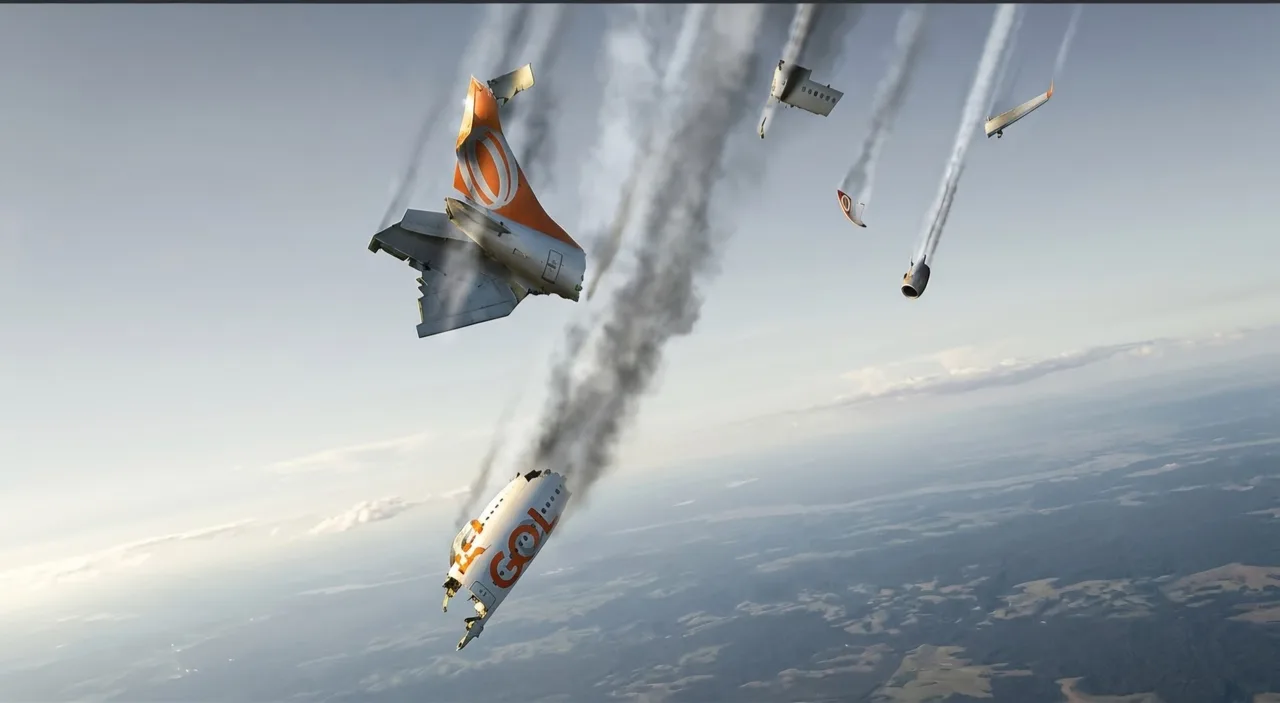
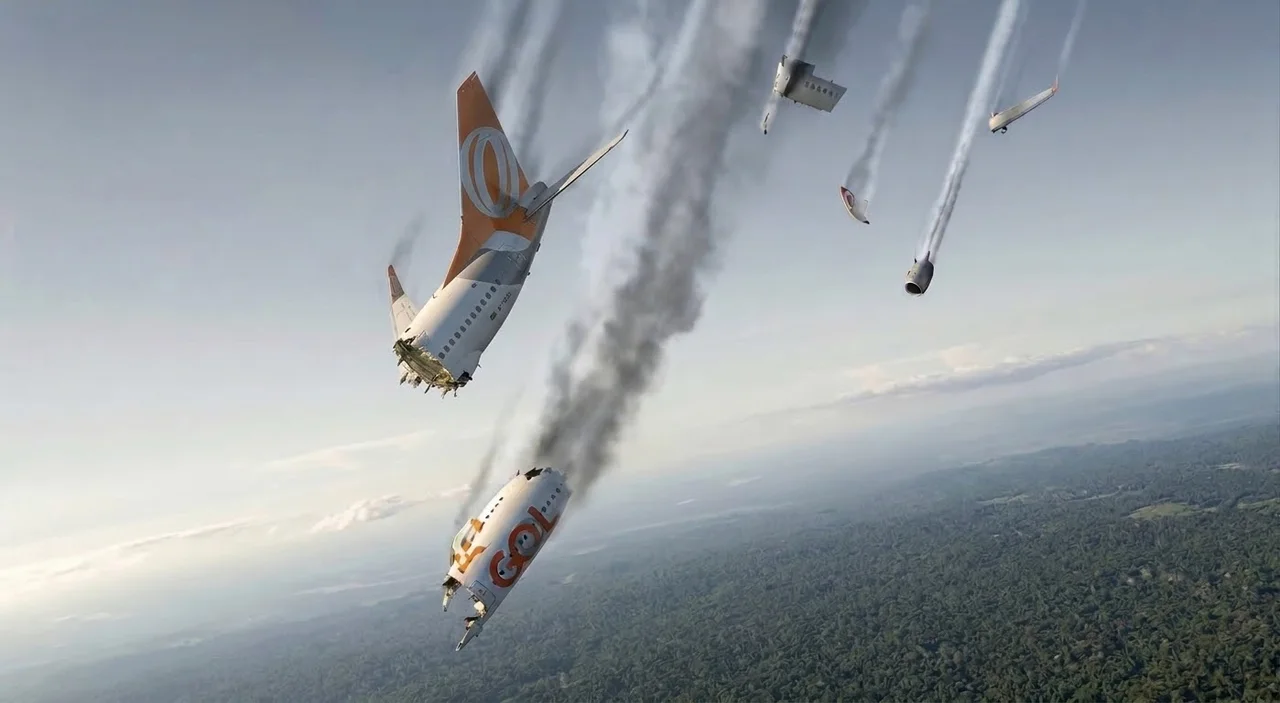
Hangar Escola: nova foto da queda no capítulo 9 do Gol 1907
Claude-Session: https://claude.ai/code/session_01PxKViBYL6qRqF4hkoHqSJb

diff --git a/aviao/sw.js b/aviao/sw.js
@@ -1,7 +1,7 @@
 /* Service worker: o app abre e funciona offline. */
-const CACHE = 'hangar-escola-v159';
+const CACHE = 'hangar-escola-v160';
 // Os arquivos levam "?v=" no index.html: ao mudar a versão, o celular nunca mistura CSS/JS antigo com HTML novo.
-const FILES = ['./', 'index.html', 'style.css?v=159', 'avioes.js?v=159', 'catalogo747.js?v=159', 'cockpit747.js?v=159', 'motor3d.js?v=159', 'motor747.js?v=159', 'meteo.js?v=159', 'radio.js?v=159', 'historia.js?v=159', 'desastres.js?v=159', 'app.js?v=159', 'icon.svg', 'apple-touch-icon.png', 'icon-192.png', 'icon-512.png', 'manifest.webmanifest', 'assets/747-lateral.jpg', 'assets/747-frontal.jpg', 'assets/747-motor.jpg', 'assets/747-superior.png', 'assets/747-lado.webp', 'assets/747-lado-prof.webp', 'assets/747-tras.webp', 'assets/747-tras-trem.webp', 'assets/bank-angle.mp3', 'assets/v1.mp3', 'assets/nuvem-cb.webp', 'assets/nuvem-cu.webp', 'assets/nuvem-ci.webp', 'assets/nuvem-cc.webp', 'assets/nuvem-cs.webp', 'assets/nuvem-ac.webp', 'assets/nuvem-as.webp', 'assets/nuvem-ns.webp', 'assets/nuvem-sc.webp', 'assets/nuvem-st.webp', 'assets/nuvens-atlas.webp', 'assets/historia-1881.webp', 'assets/historia-vevey.webp', 'assets/historia-serraria.webp', 'assets/historia-dominguez.webp', 'assets/historia-curtiss.webp', 'assets/jal123-mapa.webp', 'assets/jal123-haneda.webp', 'assets/jal123-decolagem.webp', 'assets/jal123-cauda.webp', 'assets/jal123-cabine.webp', 'assets/jal123-hidraulico.webp', 'assets/jal123-manetes.webp', 'assets/jal123-montanhas.webp', 'assets/jal123-bilhete.webp', 'assets/jal123-c130.webp', 'assets/jal123-deriva.webp', 'assets/af447-mapa.webp', 'assets/af447-galeao.webp', 'assets/af447-decolagem.webp', 'assets/af447-lua.webp', 'assets/af447-tempestade.webp', 'assets/af447-painel.webp', 'assets/cauda-af.webp', 'assets/cauda-jal.webp', 'assets/cauda-mh.webp', 'assets/cauda-gol.webp', 'assets/gol1907-mapa.webp', 'assets/gol1907-legacy-sjc.webp', 'assets/gol1907-737.webp', 'assets/gol1907-legacy-voo.webp', 'assets/gol1907-cabine-legacy.webp', 'assets/gol1907-acc.webp', 'assets/gol1907-choque.webp', 'assets/gol1907-queda.webp', 'assets/gol1907-controle.webp', 'assets/af447-pitot.webp', 'assets/af447-pitot-gelo.webp', 'assets/af447-manches.webp', 'assets/af447-estol.webp', 'assets/af447-cabine.webp', 'assets/af447-queda.webp', 'assets/af447-deriva.webp', 'assets/af447-painel-voos.webp', 'assets/af447-fundo.webp', 'assets/af447-relatorio.webp', 'assets/af447-sondas.webp', 'assets/af447-tribunal.webp', 'assets/af447-estol-diagrama.webp', 'assets/mh370-mapa.webp', 'assets/mh370-klia.webp', 'assets/mh370-decolagem.webp', 'assets/mh370-cinto.webp', 'assets/mh370-radar.webp', 'assets/mh370-peninsula.webp', 'assets/mh370-oceano.webp', 'assets/mh370-ultimo-eco.webp', 'assets/mh370-satelite.webp', 'assets/mh370-busca.webp', 'assets/mh370-bluefin.webp'];
+const FILES = ['./', 'index.html', 'style.css?v=160', 'avioes.js?v=160', 'catalogo747.js?v=160', 'cockpit747.js?v=160', 'motor3d.js?v=160', 'motor747.js?v=160', 'meteo.js?v=160', 'radio.js?v=160', 'historia.js?v=160', 'desastres.js?v=160', 'app.js?v=160', 'icon.svg', 'apple-touch-icon.png', 'icon-192.png', 'icon-512.png', 'manifest.webmanifest', 'assets/747-lateral.jpg', 'assets/747-frontal.jpg', 'assets/747-motor.jpg', 'assets/747-superior.png', 'assets/747-lado.webp', 'assets/747-lado-prof.webp', 'assets/747-tras.webp', 'assets/747-tras-trem.webp', 'assets/bank-angle.mp3', 'assets/v1.mp3', 'assets/nuvem-cb.webp', 'assets/nuvem-cu.webp', 'assets/nuvem-ci.webp', 'assets/nuvem-cc.webp', 'assets/nuvem-cs.webp', 'assets/nuvem-ac.webp', 'assets/nuvem-as.webp', 'assets/nuvem-ns.webp', 'assets/nuvem-sc.webp', 'assets/nuvem-st.webp', 'assets/nuvens-atlas.webp', 'assets/historia-1881.webp', 'assets/historia-vevey.webp', 'assets/historia-serraria.webp', 'assets/historia-dominguez.webp', 'assets/historia-curtiss.webp', 'assets/jal123-mapa.webp', 'assets/jal123-haneda.webp', 'assets/jal123-decolagem.webp', 'assets/jal123-cauda.webp', 'assets/jal123-cabine.webp', 'assets/jal123-hidraulico.webp', 'assets/jal123-manetes.webp', 'assets/jal123-montanhas.webp', 'assets/jal123-bilhete.webp', 'assets/jal123-c130.webp', 'assets/jal123-deriva.webp', 'assets/af447-mapa.webp', 'assets/af447-galeao.webp', 'assets/af447-decolagem.webp', 'assets/af447-lua.webp', 'assets/af447-tempestade.webp', 'assets/af447-painel.webp', 'assets/cauda-af.webp', 'assets/cauda-jal.webp', 'assets/cauda-mh.webp', 'assets/cauda-gol.webp', 'assets/gol1907-mapa.webp', 'assets/gol1907-legacy-sjc.webp', 'assets/gol1907-737.webp', 'assets/gol1907-legacy-voo.webp', 'assets/gol1907-cabine-legacy.webp', 'assets/gol1907-acc.webp', 'assets/gol1907-choque.webp', 'assets/gol1907-queda.webp', 'assets/gol1907-controle.webp', 'assets/af447-pitot.webp', 'assets/af447-pitot-gelo.webp', 'assets/af447-manches.webp', 'assets/af447-estol.webp', 'assets/af447-cabine.webp', 'assets/af447-queda.webp', 'assets/af447-deriva.webp', 'assets/af447-painel-voos.webp', 'assets/af447-fundo.webp', 'assets/af447-relatorio.webp', 'assets/af447-sondas.webp', 'assets/af447-tribunal.webp', 'assets/af447-estol-diagrama.webp', 'assets/mh370-mapa.webp', 'assets/mh370-klia.webp', 'assets/mh370-decolagem.webp', 'assets/mh370-cinto.webp', 'assets/mh370-radar.webp', 'assets/mh370-peninsula.webp', 'assets/mh370-oceano.webp', 'assets/mh370-ultimo-eco.webp', 'assets/mh370-satelite.webp', 'assets/mh370-busca.webp', 'assets/mh370-bluefin.webp'];
 
 self.addEventListener('install', (e) => {
   e.waitUntil(caches.open(CACHE).then((c) => c.addAll(FILES)).then(() => self.skipWaiting()));

diff --git a/aviao/index.html b/aviao/index.html
@@ -17,7 +17,7 @@
   <link rel="preconnect" href="https://fonts.googleapis.com">
   <link rel="preconnect" href="https://fonts.gstatic.com" crossorigin>
   <link href="https://fonts.googleapis.com/css2?family=Barlow+Condensed:wght@500;600;700&family=IBM+Plex+Mono:wght@400;500&family=IBM+Plex+Sans:wght@400;500;600&display=swap" rel="stylesheet">
-  <link rel="stylesheet" href="style.css?v=159">
+  <link rel="stylesheet" href="style.css?v=160">
 </head>
 <body>
   <!-- Intro: o avião decola pela pista iluminada e aparece o nome do app (toque para pular) -->
@@ -989,16 +989,16 @@
       </div>
     </section>
   </aside>
-  <script src="avioes.js?v=159"></script>
-  <script src="catalogo747.js?v=159"></script>
-  <script src="cockpit747.js?v=159"></script>
-  <script src="motor3d.js?v=159"></script>
-  <script src="motor747.js?v=159"></script>
-  <script src="meteo.js?v=159"></script>
-  <script src="radio.js?v=159"></script>
-  <script src="historia.js?v=159"></script>
-  <script src="desastres.js?v=159"></script>
-  <script src="app.js?v=159"></script>
+  <script src="avioes.js?v=160"></script>
+  <script src="catalogo747.js?v=160"></script>
+  <script src="cockpit747.js?v=160"></script>
+  <script src="motor3d.js?v=160"></script>
+  <script src="motor747.js?v=160"></script>
+  <script src="meteo.js?v=160"></script>
+  <script src="radio.js?v=160"></script>
+  <script src="historia.js?v=160"></script>
+  <script src="desastres.js?v=160"></script>
+  <script src="app.js?v=160"></script>
   <script>
     // No APK os arquivos já vêm dentro do app; o service worker é só para o site.
     const nativo = !!(window.Capacitor && window.Capacitor.isNativePlatform && window.Capacitor.isNativePlatform());
